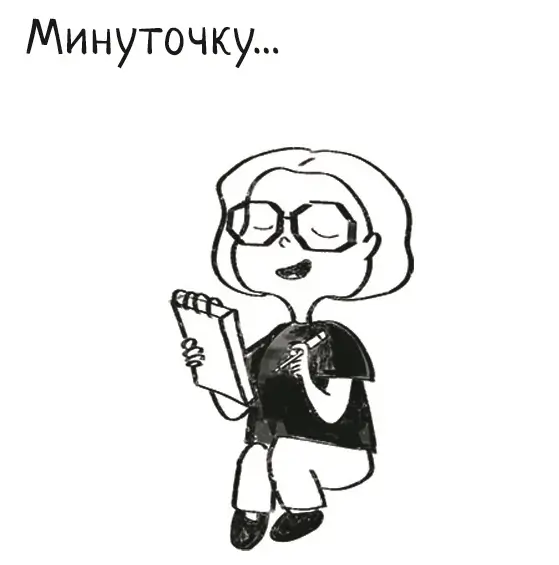
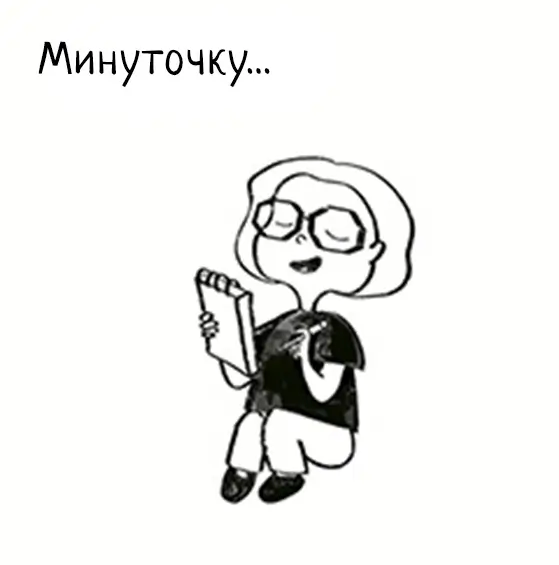
Fix

Changed region(s): [[0.3041, 0.2407, 0.7603, 0.9929], [0.0304, 0.0301, 0.4866, 0.1504]]

diff --git a/src/components/WaitPls.vue b/src/components/WaitPls.vue
@@ -1,5 +1,5 @@
 <template>
-  <div id="waiter" class="waiting-container" :style="fade">
+  <div id="waiter" class="waiting-container" :style="{...fade, ...backgroundColor}">
     <img :src="background" style="height: 50vh;" alt="Wait please"/>
   </div>
   <div v-show="this.$props.isLoaded" style="z-index: 1;">
@@ -32,9 +32,20 @@ export default {
     },
   },
   computed: {
+    backgroundColor() {
+      if (this.isAboutPage) {
+        return {
+          backgroundColor: 'black',
+        }
+      } else {
+        return {
+          backgroundColor: 'white',
+        }
+      }
+    },
     background() {
       if (this.isAboutPage) {
-        return "";
+        return this.imgPath('waiting_dark.webp');
       } else {
         return this.imgPath('waiting.webp');
       }
@@ -63,7 +74,6 @@ export default {
   align-items: center;
   height: 100vh;
   width: 100%;
-  background-color: white;
   position: absolute;
 }
 
